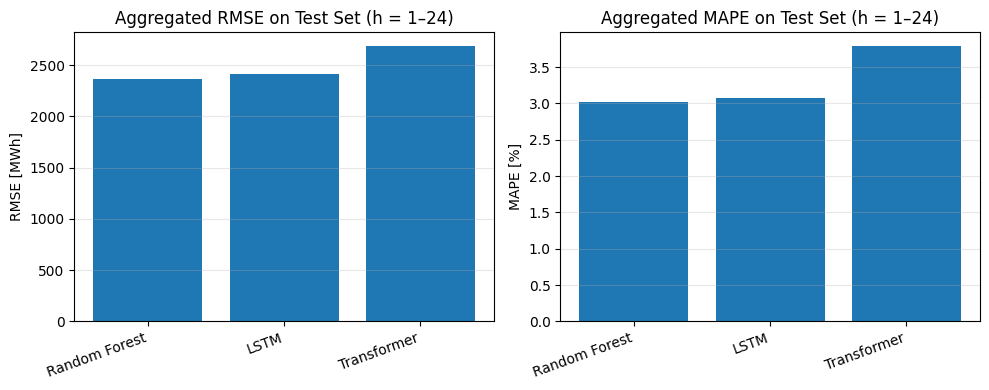
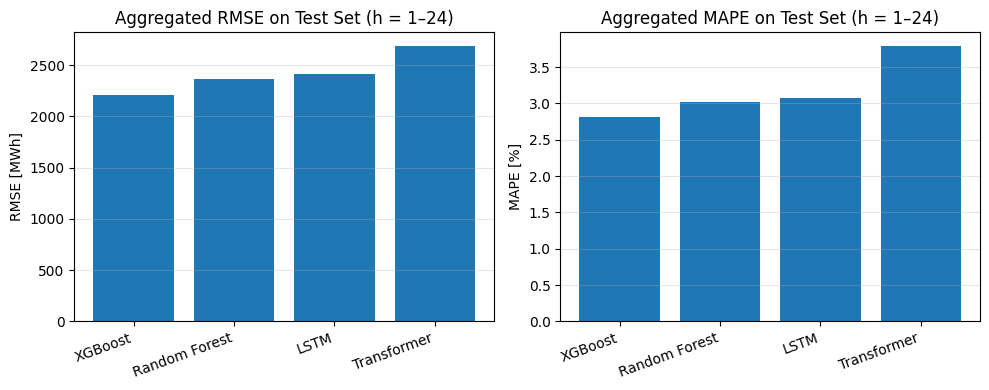
updated model comparison and README

diff --git a/README.md b/README.md
@@ -14,6 +14,7 @@ This project benchmarks several widely used forecasting models under a unified f
 
 ### Models considered
 - **Random Forest**
+- **XGBoost**
 - **LSTM (Long Short-Term Memory)**
 - **Transformer-based model**
 
@@ -43,7 +44,8 @@ Aggregated test performance across all forecast steps *(h = 1…24)*:
 
 | Model | RMSE (MWh) | MAPE (%) |
 |------:|-----------:|---------:|
-| Random Forest | **2363.02** | **3.02** |
+| **XGBoost** | **2208.96** | **2.82** |
+| Random Forest | 2363.02 | 3.02 |
 | LSTM | 2409.28 | 3.07 |
 | Transformer | 2685.20 | 3.79 |
 
@@ -51,36 +53,42 @@ Aggregated test performance across all forecast steps *(h = 1…24)*:
 
 ### Interpretation of the Comparative Results
 
-- **Random Forest** achieves the best overall forecasting performance in both error metrics.
-- **LSTM** ranks second and remains highly competitive, with only slightly higher error values.
-- **Transformer** shows the highest aggregated error under the chosen experimental configuration.
-- The consistent ranking across RMSE and MAPE indicates that the observed performance differences are not metric-specific artifacts but reflect differences in overall forecasting quality.
+- **XGBoost** achieves the best overall forecasting performance in both error metrics.
+- **Random Forest** ranks second and remains highly competitive.
+- **LSTM** performs comparably but shows slightly higher aggregated errors.
+- **Transformer** exhibits the highest overall error under the standardized experimental setup.
 
-Importantly, all three models deliver fundamentally solid STLF performance and are suitable for short-term load forecasting tasks.
+The identical ranking across RMSE and MAPE indicates that performance differences reflect general forecast quality rather than metric-specific distortions.
+
+All four models demonstrate solid short-term load forecasting performance.
 
 ---
 
 ## Error Distribution and Stability
 
-Beyond aggregated metrics, the models differ in error variance and forecast stability.
+Beyond aggregated metrics, the models differ in variance, dispersion, and robustness across forecast horizons.
 
-### Random Forest
-- Compact error distributions across horizons  
-- Fewer extreme outliers  
-- High forecast stability across short- and long-term horizons  
+### XGBoost
+- Lowest overall dispersion  
+- Particularly stable in medium forecast horizons  
+- Very compact error distribution  
 - Median errors consistently close to zero  
 
+### Random Forest
+- Slightly broader dispersion than XGBoost  
+- Few extreme outliers  
+- Stable performance across short- and long-term horizons  
+
 ### LSTM
-- Broader dispersion in mid-horizons  
-- More pronounced negative outliers (occasional underestimation of load)  
-- Errors stabilize again toward longer horizons  
-- Slight delay in reacting to abrupt load changes  
+- Higher variance in medium horizons  
+- Occasional pronounced underestimations  
+- Mild smoothing of sharp load changes  
+- Errors stabilize toward longer horizons  
 
 ### Transformer
-- Highest dispersion across horizons  
-- More symmetric error distribution  
-- Stronger smoothing of short-term fluctuations  
-- Deviations sometimes persist across multiple consecutive days  
+- Highest overall dispersion  
+- Stronger smoothing of short-term dynamics  
+- Deviations sometimes persist across consecutive days  
 
 Across all models, median errors remain close to zero.  
 Performance differences are therefore primarily driven by **variance and extreme deviations**, not systematic bias.
@@ -89,110 +97,57 @@ Performance differences are therefore primarily driven by **variance and extreme
 
 ## Qualitative Forecast Behavior
 
-A qualitative comparison of predicted vs. actual load curves shows:
+A comparison of predicted vs. actual load curves reveals structural differences:
 
-- **Random Forest** closely tracks both short-term fluctuations and long-term seasonality.
-- **LSTM** captures core seasonal and weekly patterns but smooths pronounced load minima and reacts more slowly to abrupt changes.
-- **Transformer** shows stronger smoothing effects and reduced responsiveness to short-term dynamics.
+- **XGBoost** most closely tracks daily cycles, seasonal structures, and short-term fluctuations.
+- **Random Forest** captures recurring temporal patterns reliably but smooths extreme peaks slightly.
+- **LSTM** models central patterns well but reacts more slowly to abrupt changes.
+- **Transformer** shows the strongest smoothing behavior and reduced responsiveness to short-term volatility.
 
-Thus, the models differ not only in accuracy but also in:
+The models differ not only in accuracy but also in:
 
-- Responsiveness  
-- Stability  
-- Treatment of extreme load trajectories  
+- Responsiveness to sudden load changes  
+- Stability across horizons  
+- Treatment of extreme trajectories  
 
 ---
 
 ## Explainability & Success Drivers (XAI Insights)
 
-Explainable AI analyses reveal fundamentally different modeling strategies.
+The models rely on different internal mechanisms to generate forecasts.
+
+### XGBoost
+- Dominated by short-term lag features (`lag_1`, `lag_2`)  
+- Strong reliance on calendar features (`hour`, `weekday`)  
+- Sequential error correction refines residuals across horizons  
 
 ### Random Forest
-Relies strongly on:
-- Short-term lags (`lag_1`, `lag_2`, `lag_24`)
-- Weekly and medium-term lags (`lag_168`, `lag_336`, `lag_672`)
-
-→ Explicit exploitation of recurring temporal patterns  
-→ Fast and consistent reaction to load changes  
+- Combines short-term, daily, and weekly lag structures  
+- Explicit exploitation of recurring temporal patterns  
+- Stable and fast reaction to load changes  
 
 ### LSTM
-Distinct functional roles:
-- Calendar features (`hour`, `weekday`, `is_weekend`) → systematic level effects  
-- Lag features (`lag_1`, `lag_2`, `lag_6`, `lag_336`, `lag_8760`) → local adjustments  
-
-→ Smoother predictions  
-→ Temporal smoothing via internal cell state  
+- Calendar features model systematic level differences  
+- Lag features drive local prediction adjustments  
+- Internal memory induces smoother forecasts  
 
 ### Transformer
-Horizon-dependent feature weighting:
-- Short horizons → short-term lags dominate  
-- Medium horizons → calendar features gain importance  
-- Long horizons → long-term lags (`lag_672`, `lag_8760`) dominate  
-
-→ Dynamic reweighting mechanism via attention  
+- Horizon-dependent feature weighting  
+- Short-term lags dominate early horizons  
+- Long-term lags gain importance for distant horizons  
+- Attention dynamically reweights temporal context  
 
 ---
 
 ## Key Conclusion
 
-Under the standardized experimental framework of this study:
+Under the standardized experimental framework:
 
-- **Random Forest provides the highest forecast accuracy and strongest stability across all 24 horizons.**
-- The higher architectural complexity of LSTM and Transformer models does not translate into superior predictive performance in this specific setup.
-- The forecasting task is strongly driven by recurring daily and weekly patterns, which are particularly well captured by tree-based models using explicit lag features.
+- **XGBoost delivers the highest forecast accuracy and strongest overall stability.**
+- Tree-based ensemble methods outperform sequence-based deep learning models in this autoregressive, lag-driven setting.
+- The forecasting task is primarily governed by recurring daily and weekly structures, which are efficiently captured by boosting-based tree ensembles.
 
-However, this performance ranking is **conditional on the chosen feature design and experimental framework**, not a universal hierarchy of model classes.
-
----
-
-## Methodological Considerations
-
-The comparison is deliberately standardized but not architecturally identical.
-
-Important structural differences:
-
-- **Random Forest**: 24 independent horizon-specific models  
-- **LSTM & Transformer**: single multi-output (MIMO) models  
-
-Implications:
-
-- Random Forest can specialize per forecast horizon  
-- Neural models learn shared internal representations across all horizons  
-
-Additional considerations:
-
-- Horizon-specific hyperparameter tuning for Random Forest  
-- Shared tuning for neural models  
-- Transformer tuning conducted on a reduced subset due to computational constraints  
-- Different input window lengths:
-  - Random Forest → single feature vector  
-  - LSTM → 24-hour sequence  
-  - Transformer → 336-hour sequence  
-
-These differences limit strict one-to-one architectural comparability.
-
----
-
-## Limitations
-
-The most important limitation is the deliberately limited feature set.
-
-Included:
-- Autoregressive lag features  
-- Calendar variables  
-
-Not included:
-- Weather data  
-- Public holidays  
-- Economic indicators  
-- Additional exogenous variables  
-
-This design ensures transparent comparability but may particularly restrict the potential of sequence-based and attention-based models, whose strengths lie in integrating heterogeneous contextual information.
-
-Therefore:
-
-> The results should be interpreted as valid within a deliberately standardized comparative framework rather than as a universal performance hierarchy.
-
+However, the ranking is **conditional on the chosen feature design and experimental framework**, and should not be interpreted as a universal dominance of one model class.
 
 ## Reproducibility
 
